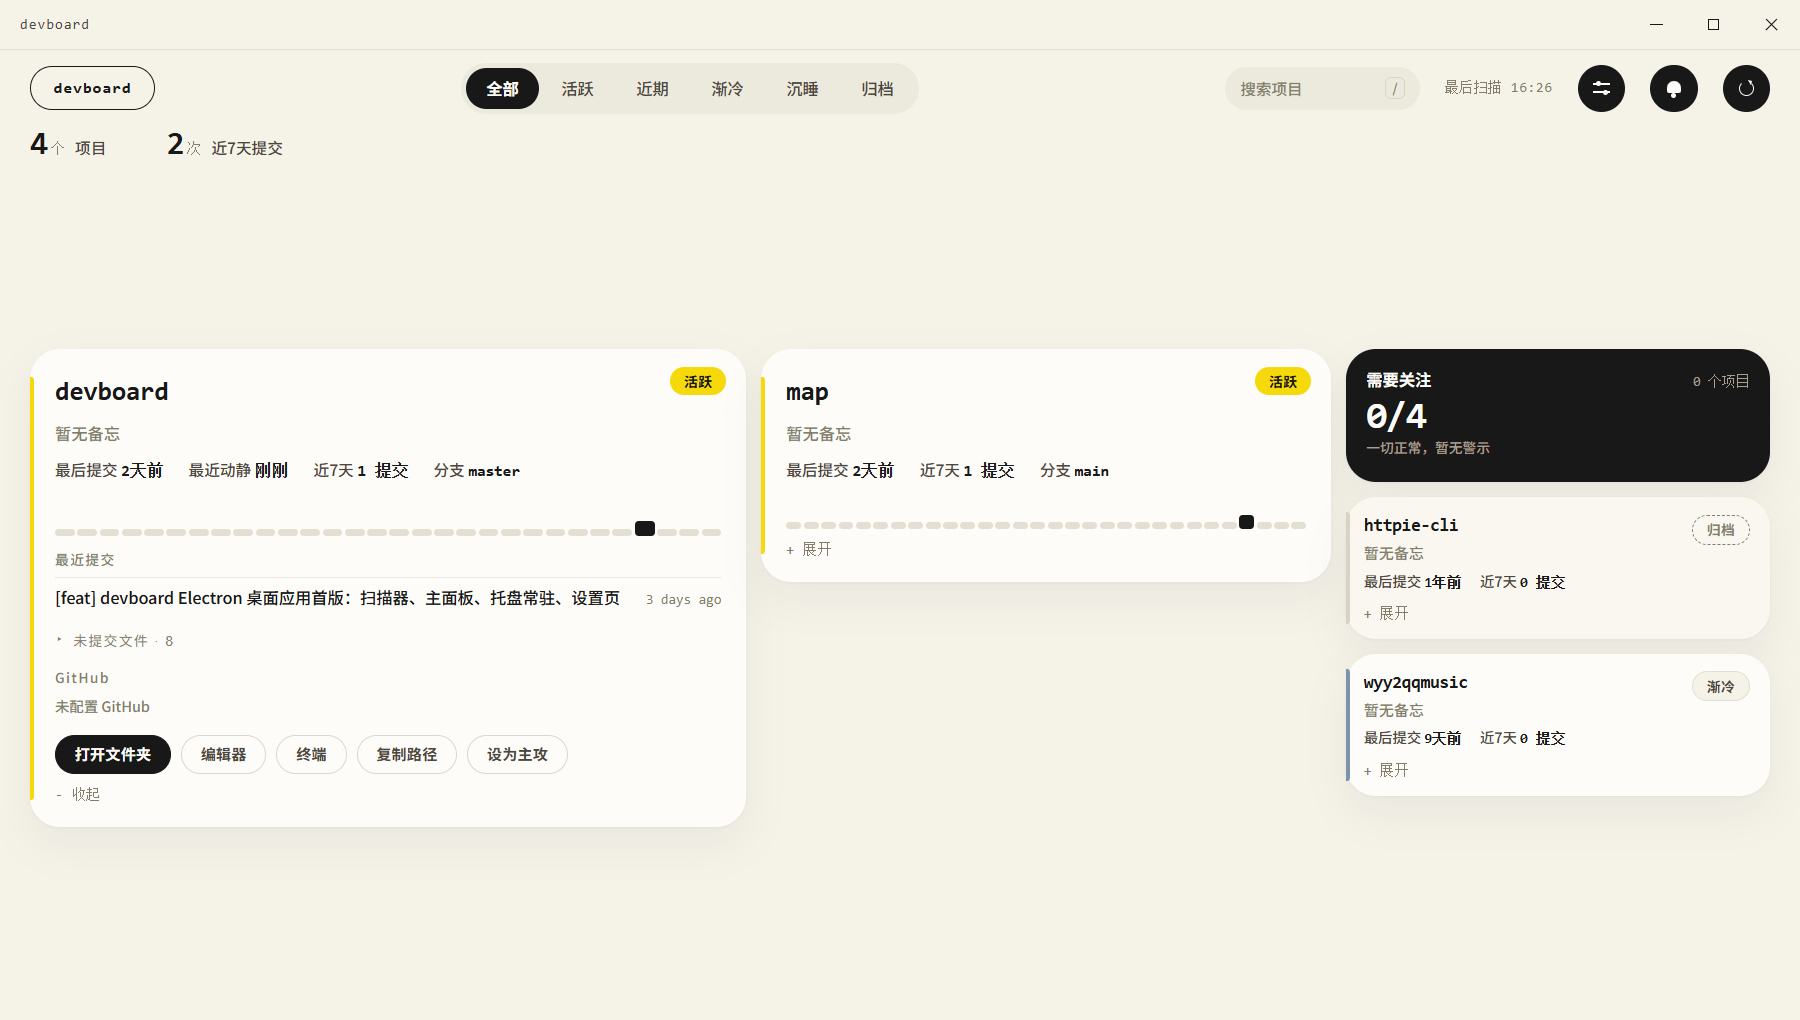
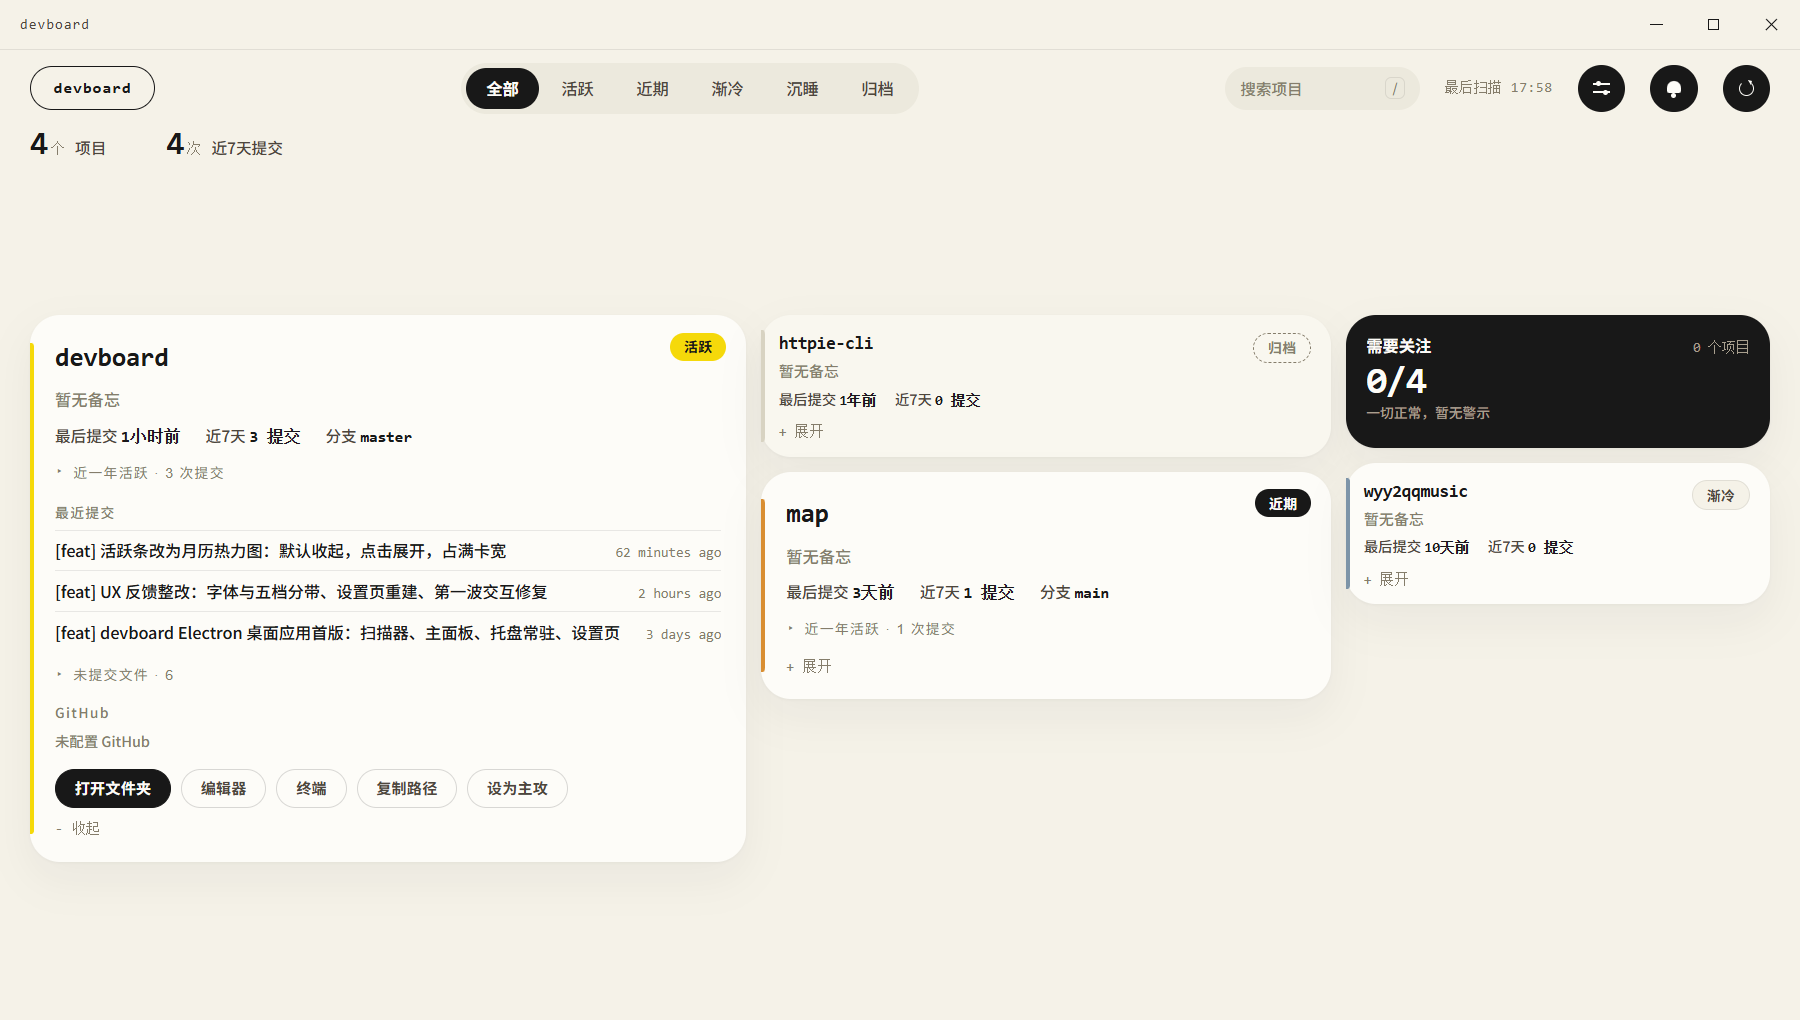
[feat] 全部视图贪心充满排版 + 全年贡献热力图
排版：三列改为贪心填充——大卡固定左上、关注卡固定右上，其余卡片
按估计高度进当前最矮列，消除左列大空；关注卡列表限 5 条，
超出「展开全部」开合，不再把右列顶穿。

热力图：activity30 升级为 activity365（scanner 拉取全年 log 按天聚合），
渲染为 GitHub 风格全年贡献图，默认收起为「近一年活跃 · N 次提交」，
点击展开占满卡宽；五档色阶（0/1-2/3-5/6-9/10+），悬停显示日期与
提交数，底部轴逐月标注 + 右端「今天」。

diff --git a/src/renderer/app.js b/src/renderer/app.js
@@ -17,6 +17,7 @@
     expanded: {}, // path -> bool
     dragPath: null,
     lastLayout: [], // 当前视觉顺序（大卡 → 中列 → 右列）
+    attnFull: false, // 关注卡是否展开全部条目
   };
 
   var grid = document.getElementById('grid');
@@ -86,6 +87,19 @@
     return tb - ta;
   }
 
+  // 卡片高度粗估（px）：贪心填充三列时用，允许误差
+  function estH(p, kind) {
+    var h = kind === 'big' ? 250 : kind === 'mid' ? 205 : 118;
+    if (p.warnings && p.warnings.length) h += kind === 'compact' ? 26 : 32;
+    if (state.expanded[p.path]) {
+      h += 24 + (p.recentCommits ? p.recentCommits.length : 0) * 27; // 最近提交
+      if (p.dirtyFiles && p.dirtyFiles.length) h += 26; // 未提交文件摘要行
+      h += p.github ? 44 + p.github.items.length * 27 : 26; // GitHub 区
+      h += 48; // 快捷按钮行
+    }
+    return h;
+  }
+
   function queryMatch(p) {
     if (!state.query) return true;
     return (p.name + ' ' + (p.memo || '')).toLowerCase().indexOf(state.query) >= 0;
@@ -98,14 +112,14 @@
   function canDrag() { return state.band === 'all' && !state.query; }
 
   /* ---------- 卡片 ---------- */
-  // 近 30 天活跃：GitHub 风格月历热力图，默认收起，点击展开（issue #1）
+  // 近一年活跃：GitHub 风格全年贡献热力图，默认收起，点击展开
   function renderActivity(parent, p) {
-    var activity = p.activity30 || [];
+    var activity = p.activity365 || [];
     var total = activity.reduce(function (s, n) { return s + n; }, 0);
     var tog = el('button', 'sec-title dirty-toggle');
     tog.type = 'button';
     tog.appendChild(el('span', 'caret', '▸'));
-    tog.appendChild(document.createTextNode('近 30 天活跃 · ' + total + ' 次提交'));
+    tog.appendChild(document.createTextNode('近一年活跃 · ' + total + ' 次提交'));
     var wrap = el('div', 'dirty-wrap');
     var din = el('div', 'dirty-in');
     din.appendChild(buildHeatmap(activity));
@@ -119,32 +133,34 @@
     parent.appendChild(wrap);
   }
 
-  // activity[29] = 今天；周一在最上一行，按周列 × 周日行落位
+  // activity 末位 = 今天；周一在最上一行，周列 × 周日行，占满卡片宽度
   function buildHeatmap(activity) {
     var DAY = 86400000;
+    var days = activity.length;
     var box = el('div', 'heat');
     var gridEl = el('div', 'heat-grid');
     var today = new Date();
     today.setHours(0, 0, 0, 0);
-    var first = today.getTime() - 29 * DAY;
+    var first = today.getTime() - (days - 1) * DAY;
     var lead = (new Date(first).getDay() + 6) % 7; // 窗口第一天距周一的偏移
     var b;
     for (b = 0; b < lead; b++) gridEl.appendChild(el('i', 'cell blank'));
     activity.forEach(function (n, i) {
       var d = new Date(first + i * DAY);
-      var cell = el('i', 'cell l' + (n === 0 ? 0 : n >= 3 ? 3 : n));
+      var lvl = n === 0 ? 0 : n < 3 ? 1 : n < 6 ? 2 : n < 10 ? 3 : 4;
+      var cell = el('i', 'cell l' + lvl);
       cell.title = (d.getMonth() + 1) + '月' + d.getDate() + '日 · ' + (n ? n + ' 次提交' : '无提交');
       gridEl.appendChild(cell);
     });
     box.appendChild(gridEl);
 
-    // 底部轴：月份切换列标注「X 月」，右端标注「今天」（按列百分比定位，随卡片宽度伸缩）
-    var cols = Math.ceil((lead + activity.length) / 7);
+    // 底部轴：每月首列标注「X 月」，右端标注「今天」（按列百分比定位）
+    var cols = Math.ceil((lead + days) / 7);
     var axis = el('div', 'heat-axis');
     var prevMonth = -1;
     for (var cix = 0; cix < cols; cix++) {
       var dayIdx = Math.max(0, cix * 7 - lead);
-      if (dayIdx >= activity.length) break;
+      if (dayIdx >= days) break;
       var dd = new Date(first + dayIdx * DAY);
       if (dd.getMonth() !== prevMonth) {
         var m = el('span', 'mon', (dd.getMonth() + 1) + '月');
@@ -433,7 +449,10 @@
     aside.appendChild(head);
     aside.appendChild(el('div', 'attn-num mono', board.stats.attentionCount + '/' + board.stats.total));
     aside.appendChild(el('div', 'attn-sub', board.attention.length ? '存在未推送提交或滞留改动' : '一切正常，暂无警示'));
-    board.attention.forEach(function (a) {
+    // 列表上限 5 条，避免长列表把右列顶穿；点击「展开全部」查看剩余
+    var CAP = 5;
+    var items = state.attnFull ? board.attention : board.attention.slice(0, CAP);
+    items.forEach(function (a) {
       var item = el('div', 'attn-item');
       item.appendChild(el('span', 'ic'));
       item.appendChild(el('span', 'nm mono', a.name));
@@ -448,6 +467,16 @@
       });
       aside.appendChild(item);
     });
+    if (board.attention.length > CAP) {
+      var more = el('button', 'attn-more', state.attnFull ? '收起' : '展开全部 ' + board.attention.length + ' 条');
+      more.type = 'button';
+      more.addEventListener('click', function (e) {
+        e.stopPropagation();
+        state.attnFull = !state.attnFull;
+        renderAll();
+      });
+      aside.appendChild(more);
+    }
     return aside;
   }
 
@@ -506,46 +535,34 @@
     var bigProj = pinned || hotActive.slice().sort(byActivityDesc)[0] || all.slice().sort(byActivityDesc)[0];
     var rest = all.filter(function (p) { return p !== bigProj; });
 
-    // 中列：活跃/近期；右列：渐冷/沉睡/归档紧凑卡。无热项目时提两个最前的进中列保持饱满
-    var midList = rest.filter(function (p) { return FOCUS_BANDS[p.band]; });
-    var compactList = rest.filter(function (p) { return !FOCUS_BANDS[p.band]; });
-    if (midList.length === 0 && compactList.length > 0) {
-      midList = compactList.slice(0, 2);
-      compactList = compactList.slice(2);
-    }
-    state.lastLayout = [bigProj.path].concat(
-      midList.map(function (p) { return p.path; }),
-      compactList.map(function (p) { return p.path; })
-    );
+    state.lastLayout = [bigProj.path].concat(rest.map(function (p) { return p.path; }));
 
-    // 左：大卡
-    if (state.expanded[bigProj.path] === undefined) state.expanded[bigProj.path] = true;
+    // 贪心填充三列：大卡固定左上、关注卡固定右上，其余卡片进当前最矮列，优先充满
     var colL = el('div', 'col big');
+    var colM = el('div', 'col col-mid');
+    var colR = el('div', 'col col-right');
+    var cols = [colL, colM, colR];
+    var hs = [0, 0, 0];
+
+    if (state.expanded[bigProj.path] === undefined) state.expanded[bigProj.path] = true;
     var bigCard = projectCard(bigProj, 'big');
     bigCard.setAttribute('data-path', bigProj.path);
     colL.appendChild(bigCard);
-    grid.appendChild(colL);
+    hs[0] = estH(bigProj, 'big');
 
-    // 中列：无项目时整列收起，网格用 no-mid 加宽大卡与右列
-    grid.classList.toggle('no-mid', midList.length === 0);
-    if (midList.length > 0) {
-      var colM = el('div', 'col col-mid');
-      midList.forEach(function (p) {
-        var c = projectCard(p, 'mid');
-        c.setAttribute('data-path', p.path);
-        colM.appendChild(c);
-      });
-      grid.appendChild(colM);
-    }
-
-    // 右列：需要关注黑卡 + 紧凑卡
-    var colR = el('div', 'col col-right');
     colR.appendChild(attentionCard(board));
-    compactList.forEach(function (p) {
-      var c = projectCard(p, 'compact');
+    hs[2] = 130 + Math.min(board.attention.length, 5) * 31 + (board.attention.length > 5 ? 32 : 0);
+
+    rest.forEach(function (p) {
+      var kind = FOCUS_BANDS[p.band] ? 'mid' : 'compact';
+      var c = projectCard(p, kind);
       c.setAttribute('data-path', p.path);
-      colR.appendChild(c);
+      var i = hs[0] <= hs[1] && hs[0] <= hs[2] ? 0 : hs[1] <= hs[2] ? 1 : 2;
+      cols[i].appendChild(c);
+      hs[i] += estH(p, kind) + 12;
     });
+    grid.appendChild(colL);
+    grid.appendChild(colM);
     grid.appendChild(colR);
 
     // 内容不足一屏时垂直居中，避免重心上浮

diff --git a/scripts/mock-board.js b/scripts/mock-board.js
@@ -5,10 +5,18 @@ function isoDaysAgo(days, hours = 0) {
   return new Date(Date.now() - days * 86400000 - hours * 3600000).toISOString();
 }
 
-function activity(seed) {
-  // 生成确定性的 30 天活动数组
-  const arr = new Array(30).fill(0);
-  for (let i = 0; i < 30; i++) arr[i] = (i * 7 + seed * 13) % 5 === 0 ? 0 : ((i * 7 + seed * 13) % 5);
+function yearActivity(seed, hotRecently = false) {
+  // 生成确定性的全年活动数组：老底子稀疏，hotRecently 时近几周加密
+  const arr = new Array(365).fill(0);
+  for (let i = 0; i < 365; i++) {
+    const v = (i * 7 + seed * 13) % 9;
+    arr[i] = v < 5 ? 0 : v - 4; // 0~4 量级
+  }
+  if (hotRecently) {
+    for (let i = 365 - 28; i < 365; i++) {
+      arr[i] = (i + seed) % 4 === 0 ? 0 : ((i * 3 + seed) % 8) + 1; // 近 4 周高量
+    }
+  }
   return arr;
 }
 
@@ -27,8 +35,7 @@ function mockBoard() {
       ]),
       dirtyCount: 3, dirtyFiles: ['_t7_migrate.py', '_t3_login.py', 'README.md'],
       ahead: 2, behind: 0, hasUpstream: true,
-      activity30: [0, 0, 1, 0, 2, 1, 0, 1, 2, 1, 0, 2, 1, 3, 2, 1, 2, 3, 2, 4, 1, 2, 3, 4, 3, 4, 2, 3, 4, 4],
-      aiSessionAt: isoDaysAgo(0, 1), memo: '迁移脚本联调中，QQ 登录 cookie 老失效',
+      activity365: yearActivity(1, true), aiSessionAt: isoDaysAgo(0, 1), memo: '迁移脚本联调中，QQ 登录 cookie 老失效',
       band: 'hot',
       warnings: [{ type: 'ahead', label: '2 提交未推送' }],
       github: {
@@ -45,7 +52,7 @@ function mockBoard() {
       lastCommitAt: isoDaysAgo(1), commits7d: 6,
       recentCommits: commits([['docs: 确定设计方向与色彩规范', '1天前'], ['feat: 项目扫描器初版', '2天前']]),
       dirtyCount: 0, dirtyFiles: [], ahead: 0, behind: 0, hasUpstream: true,
-      activity30: activity(2), aiSessionAt: isoDaysAgo(0, 3), memo: '概况板本体，刚定完设计方向',
+      activity365: yearActivity(2, true), aiSessionAt: isoDaysAgo(0, 3), memo: '概况板本体，刚定完设计方向',
       band: 'active', warnings: [], github: null,
     },
     {
@@ -53,7 +60,7 @@ function mockBoard() {
       lastCommitAt: isoDaysAgo(5), commits7d: 4,
       recentCommits: commits([['feat: PDF 模板 v2 布局', '5天前'], ['fix: 长图分页溢出', '6天前']]),
       dirtyCount: 0, dirtyFiles: [], ahead: 0, behind: 1, hasUpstream: true,
-      activity30: activity(3), aiSessionAt: isoDaysAgo(3), memo: '报告模板第二版待确认',
+      activity365: yearActivity(3, true), aiSessionAt: isoDaysAgo(3), memo: '报告模板第二版待确认',
       band: 'active',
       warnings: [{ type: 'pr', label: '1 个开放 PR' }],
       github: {
@@ -66,7 +73,7 @@ function mockBoard() {
       lastCommitAt: isoDaysAgo(12), commits7d: 0,
       recentCommits: commits([['feat: 批量关系查询', '12天前']]),
       dirtyCount: 0, dirtyFiles: [], ahead: 0, behind: 0, hasUpstream: false,
-      activity30: activity(4), aiSessionAt: null, memo: '',
+      activity365: yearActivity(4), aiSessionAt: null, memo: '',
       band: 'cooling', warnings: [], github: null,
     },
     {
@@ -75,7 +82,7 @@ function mockBoard() {
       recentCommits: commits([['feat: 新增 skill 骨架', '18天前']]),
       dirtyCount: 5, dirtyFiles: ['a.md', 'b.md', 'c.md', 'd.md', 'e.md'],
       ahead: 0, behind: 0, hasUpstream: true,
-      activity30: activity(5), aiSessionAt: isoDaysAgo(10), memo: '实验性 skill 集合',
+      activity365: yearActivity(5), aiSessionAt: isoDaysAgo(10), memo: '实验性 skill 集合',
       band: 'cooling',
       warnings: [{ type: 'dirty', label: '5 文件未提交超3天' }], github: null,
     },
@@ -84,7 +91,7 @@ function mockBoard() {
       lastCommitAt: isoDaysAgo(90), commits7d: 0,
       recentCommits: commits([['chore: upstream sync', '3个月前']]),
       dirtyCount: 0, dirtyFiles: [], ahead: 0, behind: 0, hasUpstream: true,
-      activity30: new Array(30).fill(0), aiSessionAt: null, memo: 'fork 上游，仅学习源码',
+      activity365: new Array(365).fill(0), aiSessionAt: null, memo: 'fork 上游，仅学习源码',
       band: 'stale', warnings: [], github: null,
     },
     {
@@ -93,7 +100,7 @@ function mockBoard() {
       recentCommits: commits([['fix: 反爬绕过', '74天前']]),
       dirtyCount: 8, dirtyFiles: ['spider.py', 'proxy.py'],
       ahead: 0, behind: 0, hasUpstream: false,
-      activity30: new Array(30).fill(0), aiSessionAt: null, memo: '',
+      activity365: new Array(365).fill(0), aiSessionAt: null, memo: '',
       band: 'stale',
       warnings: [{ type: 'dirty', label: '8 文件未提交超3天' }], github: null,
     },
@@ -102,7 +109,7 @@ function mockBoard() {
       lastCommitAt: isoDaysAgo(120), commits7d: 0,
       recentCommits: commits([['docs: 杂记归档', '4个月前']]),
       dirtyCount: 0, dirtyFiles: [], ahead: 0, behind: 0, hasUpstream: false,
-      activity30: new Array(30).fill(0), aiSessionAt: null, memo: '',
+      activity365: new Array(365).fill(0), aiSessionAt: null, memo: '',
       band: 'archive', warnings: [], github: null,
     },
   ];

diff --git a/src/renderer/styles.css b/src/renderer/styles.css
@@ -184,12 +184,10 @@ body{
 .grid.sparse{align-content:center;padding-top:12px;padding-bottom:24px}
 .grid.flash{opacity:.55}
 .col{display:flex;flex-direction:column;gap:12px;min-height:0}
+/* 贪心填充三列：大卡 5 格、中列 4 格、右列 3 格，卡片进最矮列优先充满 */
 .big{grid-column:span 5}
 .col-mid{grid-column:span 4}
 .col-right{grid-column:span 3}
-/* 中列无项目时收起：大卡加宽，右列随之加宽，保持左锚定饱满布局 */
-.grid.no-mid .big{grid-column:span 8}
-.grid.no-mid .col-right{grid-column:span 4}
 /* 筛选/搜索态：平铺统一尺寸卡片，一律从左上角起排（issue #5） */
 .grid.flat{align-content:start;padding-top:12px}
 .grid.flat .card{grid-column:span 4}
@@ -270,17 +268,18 @@ body{
 }
 .compact .kv-row{margin-top:4px;gap:2px 14px;font-size:11.5px}
 
-/* 近 30 天活跃热力图：月历格（周日行 × 周列），默认收起（issue #1） */
+/* 近一年活跃热力图：全年贡献格（周日行 × 周列），默认收起，占满卡宽 */
 .heat{margin-top:10px}
 .heat-grid{
-  display:grid;grid-template-rows:repeat(7, 15px);
-  grid-auto-flow:column;grid-auto-columns:1fr;gap:4px;width:100%;
+  display:grid;grid-template-rows:repeat(7, 9px);
+  grid-auto-flow:column;grid-auto-columns:1fr;gap:3px;width:100%;
 }
-.heat-grid .cell{border-radius:4px;background:#e7e3d5}
+.heat-grid .cell{border-radius:2px;background:#e7e3d5}
 .heat-grid .cell.blank{visibility:hidden}
-.heat-grid .cell.l1{background:#a89f8e}
-.heat-grid .cell.l2{background:#4d463c}
-.heat-grid .cell.l3{background:var(--accent)}
+.heat-grid .cell.l1{background:#b5ad9b}
+.heat-grid .cell.l2{background:#7d7663}
+.heat-grid .cell.l3{background:#3f3a30}
+.heat-grid .cell.l4{background:var(--accent)}
 .heat-axis{position:relative;height:14px;margin-top:6px}
 .heat-axis .mon{position:absolute;top:0;font-size:9.5px;color:var(--ink-3);white-space:nowrap}
 .heat-axis .today{position:absolute;right:0;top:0;font-size:9.5px;color:var(--ink-3)}
@@ -407,6 +406,14 @@ body{
 .attn-item .nm{font-weight:600;font-size:12.5px;white-space:nowrap}
 .attn-item .ds{flex:1;font-size:11px;color:var(--tile-ink2);white-space:nowrap;overflow:hidden;text-overflow:ellipsis}
 .attn-item .mk{width:8px;height:8px;flex:none;border-radius:50%;background:var(--accent)}
+.attn-more{
+  width:100%;margin-top:4px;padding:6px 0 2px;border:0;
+  border-top:1px solid rgba(253,252,248,.12);background:transparent;
+  color:var(--tile-ink2);font:inherit;font-size:11px;cursor:pointer;
+  letter-spacing:.04em;text-align:center;
+  transition:color .15s ease;
+}
+.attn-more:hover{color:var(--accent)}
 
 /* 骨架屏 */
 .skel{

diff --git a/src/main/scanner.js b/src/main/scanner.js
@@ -71,7 +71,7 @@ function emptyProject(projectPath) {
     ahead: 0,
     behind: 0,
     hasUpstream: false,
-    activity30: new Array(30).fill(0),
+    activity365: new Array(365).fill(0),
     aiSessionAt: null,
     lastActivityAt: null,
     memo: '',
@@ -113,15 +113,15 @@ function aiSessionAt(projectPath) {
   return latest > 0 ? new Date(latest).toISOString() : null;
 }
 
-// log --since="30 days ago" 按天聚合，今天在最后
-function buildActivity30(logOutput, now) {
-  const counts = new Array(30).fill(0);
+// log --since="365 days ago" 按天聚合，今天在最后
+function buildActivity365(logOutput, now) {
+  const counts = new Array(365).fill(0);
   const todayStart = new Date(now.getFullYear(), now.getMonth(), now.getDate()).getTime();
   for (const line of logOutput.split('\n')) {
     const t = Date.parse(line.trim());
     if (!Number.isFinite(t)) continue;
-    const idx = 29 - Math.floor((todayStart + DAY_MS - 1 - t) / DAY_MS);
-    if (idx >= 0 && idx < 30) counts[idx]++;
+    const idx = 364 - Math.floor((todayStart + DAY_MS - 1 - t) / DAY_MS);
+    if (idx >= 0 && idx < 365) counts[idx]++;
   }
   return counts;
 }
@@ -176,7 +176,7 @@ async function scanProject(projectPath, now) {
         git(projectPath, ['log', '-5', '--format=%s|%cr']).catch(() => ''),
         git(projectPath, ['status', '--porcelain']).catch(() => ''),
         git(projectPath, ['rev-list', '--left-right', '--count', 'HEAD...@{upstream}']).catch(() => null),
-        git(projectPath, ['log', '--since=30 days ago', '--format=%cI']).catch(() => ''),
+        git(projectPath, ['log', '--since=365 days ago', '--format=%cI']).catch(() => ''),
         git(projectPath, ['remote', 'get-url', 'origin']).catch(() => ''),
       ]);
 
@@ -203,7 +203,7 @@ async function scanProject(projectPath, now) {
         p.behind = parseInt(m[2], 10);
       }
     }
-    p.activity30 = buildActivity30(activityLog, now);
+    p.activity365 = buildActivity365(activityLog, now);
     p.originUrl = origin || null;
   } catch {
     // 坏仓库降级为 only-path 条目

diff --git a/CONTEXT.md b/CONTEXT.md
@@ -9,7 +9,7 @@ devboard 是一个本地桌面端项目概况板：在众多并行的 vibecoding
 _Avoid_: 仓库（repo 是实现细节）、工作区
 
 **近况信号（Signals）**:
-从项目自动提取的事实数据：最后提交时间、近7天提交数、最近提交消息、未提交改动数、未提交改动的最近修改时间、当前分支、领先/落后远程、30天提交活动图、AI 会话痕迹。全部客观、零维护。
+从项目自动提取的事实数据：最后提交时间、近7天提交数、最近提交消息、未提交改动数、未提交改动的最近修改时间、当前分支、领先/落后远程、全年提交活动热力图、AI 会话痕迹。全部客观、零维护。
 _Avoid_: 状态（status，过于模糊）、指标
 
 **AI 会话痕迹（AI Session Trace）**:
